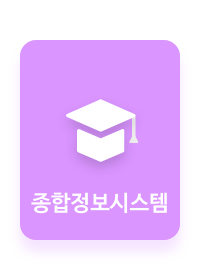
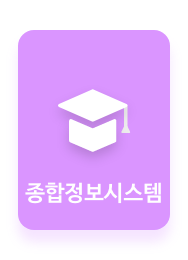
홈 화면 버튼 수정, 팀정보 수정

Changed region(s): [[0.0798, 0.0923, 0.9043, 0.8923], [0.3457, 0.3692, 0.6915, 0.5846], [0.2926, 0.3385, 0.5585, 0.4308]]

diff --git a/src/components/setting/view/TeamCard.js b/src/components/setting/view/TeamCard.js
@@ -43,7 +43,10 @@ const Bar = styled.View`
   border-bottom-left-radius: ${widthPercentageToDP(10)}
   background-color: ${({ bar = "black" }) => bar}
 `;
-const ContentView = styled.View`
+const ContentView = styled.ImageBackground.attrs(props => ({
+  source: require("HandamProject/assets/image/setting/teaminfo/teamcard.png"),
+  resizeMode: "stretch"
+}))`
   flex: 1
   padding-top: ${widthPercentageToDP(16)}
   padding-left: ${widthPercentageToDP(16)}
@@ -54,12 +57,11 @@ const ContentView = styled.View`
 
 const GroupText = styled(NBGText)`
   font-size: ${widthPercentageToDP(17)}
-  margin-bottom: ${widthPercentageToDP(28)}
+  margin-bottom: ${widthPercentageToDP(39)}
 `;
 
 const ProfileContainer = styled.View`
-  width: 100%
-  flex-direction: row
+  width: 100%;
 `;
 const Profile = styled.View`
   width: ${widthPercentageToDP(50)}
@@ -73,7 +75,7 @@ const ProfileImg = styled.Image`
   border-radius: ${widthPercentageToDP(25)}
 `;
 const ProfileText = styled(NBGULText)`
-  font-size: ${widthPercentageToDP(12)};
+  font-size: ${widthPercentageToDP(14)};
 `;
 export const TeamCard = props => {
   return (
@@ -83,14 +85,9 @@ export const TeamCard = props => {
         <ContentView>
           <GroupText>{props.data.group}</GroupText>
           <ProfileContainer>
-            {props.data.people.map((item, index) => {
-              return (
-                <Profile key={index}>
-                  <ProfileImg source={item.image} />
-                  <ProfileText>{item.name}</ProfileText>
-                </Profile>
-              );
-            })}
+            {props.data.text.map((item, index) => (
+              <ProfileText>{item}</ProfileText>
+            ))}
           </ProfileContainer>
         </ContentView>
       </Card>

diff --git a/src/containers/setting/TeamInfo.js b/src/containers/setting/TeamInfo.js
@@ -15,8 +15,8 @@ const TeamInfo = () => {
   const [index, setIndex] = useState(0);
   const [entries] = useState([
     {
-      group: "Designer",
-      image: "design",
+      group: "Design",
+      text: ["- UX/UI 및 그래픽 디자인", "- 브랜딩"],
       bar: "#cc76e4",
       people: [
         {
@@ -40,8 +40,8 @@ const TeamInfo = () => {
       ]
     },
     {
-      group: "Backend Developer",
-      image: "backend",
+      group: "Backend",
+      text: ["- 아키텍쳐 및 DB 모델링", "- API 개발"],
       bar: "#ff6384",
       people: [
         {
@@ -67,6 +67,7 @@ const TeamInfo = () => {
     },
     {
       group: "Service",
+      text: ["- 서비스 및 전략 기획", "- 마케팅", "- CS, QA"],
       bar: "#6386ff",
       people: [
         {
@@ -96,8 +97,8 @@ const TeamInfo = () => {
       ]
     },
     {
-      group: "Frontend Developer",
-      image: "frontend",
+      group: "Frontend",
+      text: ["- 데이터 및 인터페이스 시각화", "- Web / App 개발"],
       bar: "#ffca6c",
       people: [
         {

diff --git a/src/components/home/View.js b/src/components/home/View.js
@@ -143,23 +143,14 @@ export const HomeAd = ({ list = [] }) => {
   );
 };
 
-// export const HomeNavigateView = styled.View`
-//   width: ${widthPercentageToDP(310)}
-//   margin-top: ${widthPercentageToDP(27)}
-//   margin-bottom: ${widthPercentageToDP(25)}
-//   align-items: center
-//   justify-content: space-between
-//   flex-direction: row
-// `;
-export const HomeNavigateView = styled.ScrollView.attrs(props => ({
-  horizontal: true,
-  showsHorizontalScrollIndicator: false,
-  contentContainerStyle: {
-    height: widthPercentageToDP(140)
-  }
-}))`
+export const HomeNavigateView = styled.View`
   width: 100%
-  height: ${widthPercentageToDP(140)}
+  margin-top: ${widthPercentageToDP(12)}
+  margin-bottom: ${widthPercentageToDP(10)}
+  padding-horizontal: ${widthPercentageToDP(12)}
+  align-items: center
+  justify-content: space-between
+  flex-direction: row
 `;
 
 const TodayLectureTitleView = styled(RowView)`

diff --git a/src/containers/home/Home.js b/src/containers/home/Home.js
@@ -173,14 +173,12 @@ const Home = ({
         }}
       >
         <HomeAd list={noticeList} />
-        <View style={{ width: "100%", height: widthPercentageToDP(140) }}>
+        <View style={{ width: "100%" }}>
           <HomeNavigateView>
-            <View style={{ width: widthPercentageToDP(23) }} />
-            <ScheduleButton onPress={navigateSchedule} />
             <BusButton onPress={navigateBus} />
             <NoticeButton onPress={navigateNotice} />
             <CisButton onPress={navigateCis} />
-            <View style={{ width: widthPercentageToDP(23) }} />
+            <ScheduleButton onPress={navigateSchedule} />
           </HomeNavigateView>
         </View>
         <TodayLectureTitle onPress={onPressRefresh} />

diff --git a/src/components/home/Button.js b/src/components/home/Button.js
@@ -22,9 +22,8 @@ const shadow = {
 };
 
 export const HomeNavigate = styled.TouchableOpacity`
-  width: ${widthPercentageToDP(100)}
-  height: ${widthPercentageToDP(140)}
-  margin-right: ${widthPercentageToDP(5)}
+  width: ${widthPercentageToDP(84)}
+  height: ${widthPercentageToDP(130)}
   align-items: center
 `;
 
@@ -33,8 +32,8 @@ export const HomeNavigateButton = props => {
     <HomeNavigate {...props}>
       <Image
         style={{
-          width: widthPercentageToDP(100),
-          height: widthPercentageToDP(140)
+          width: widthPercentageToDP(84),
+          height: widthPercentageToDP(130)
         }}
         source={props.image}
       />
